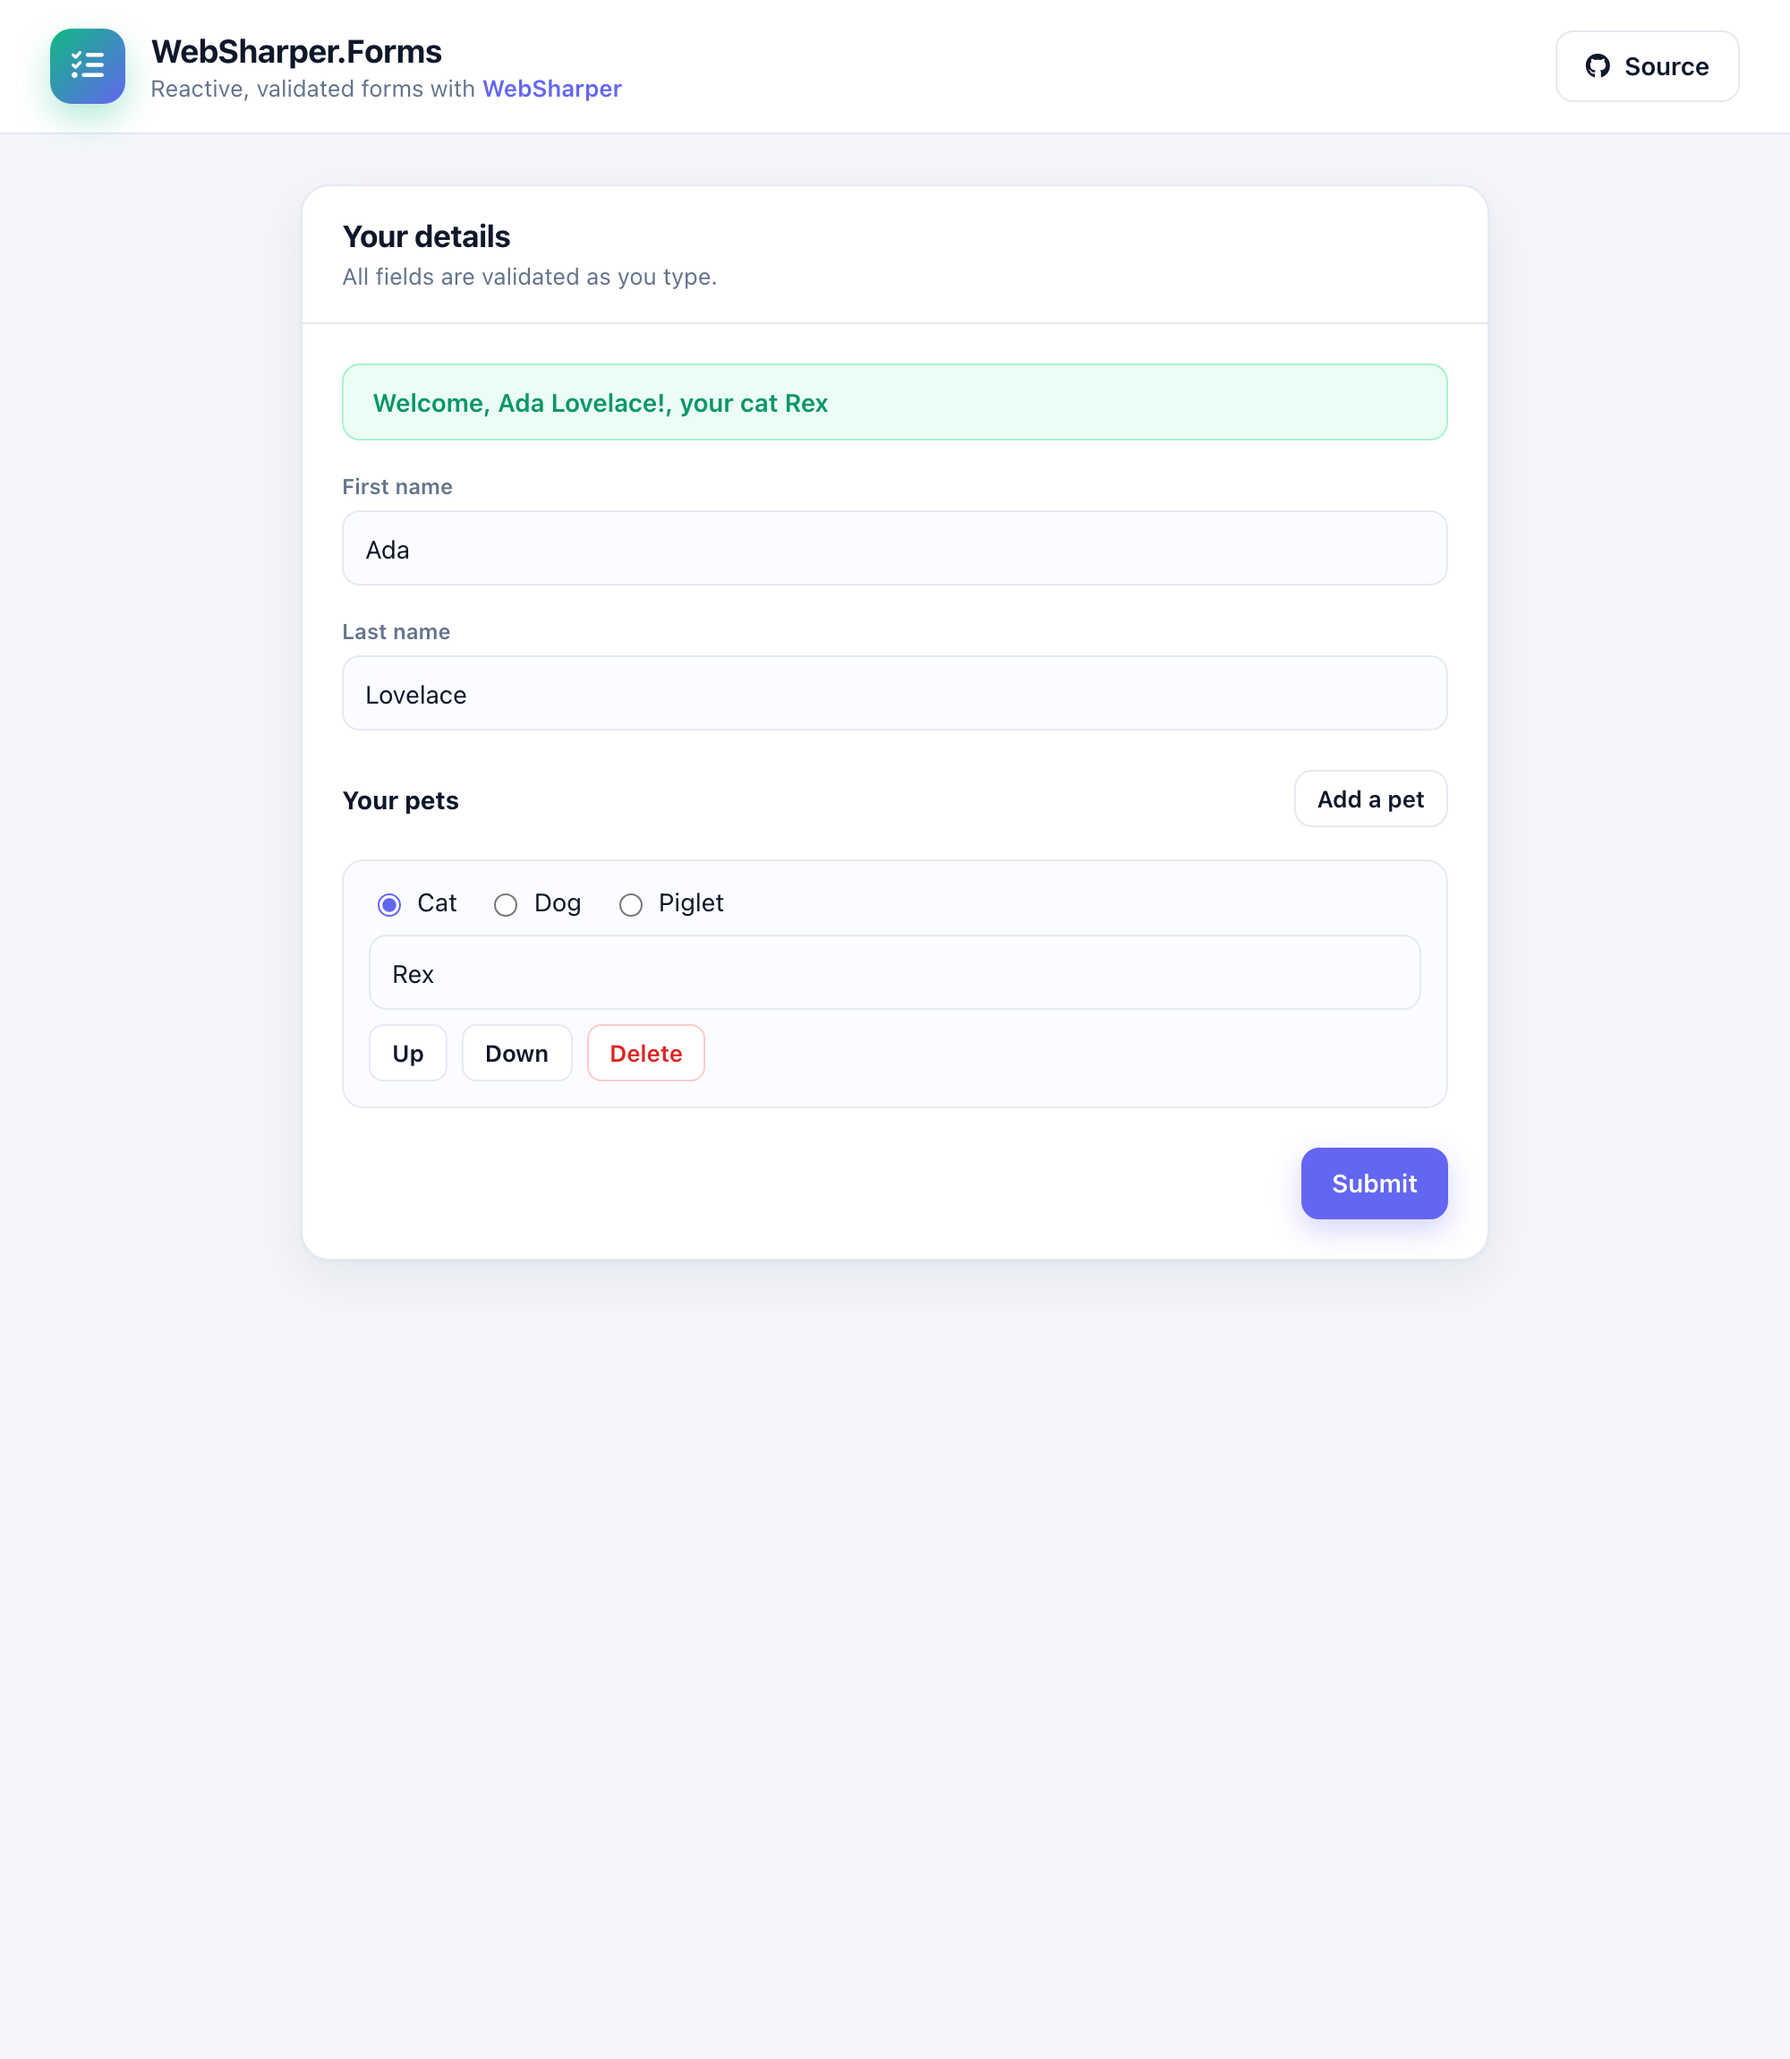
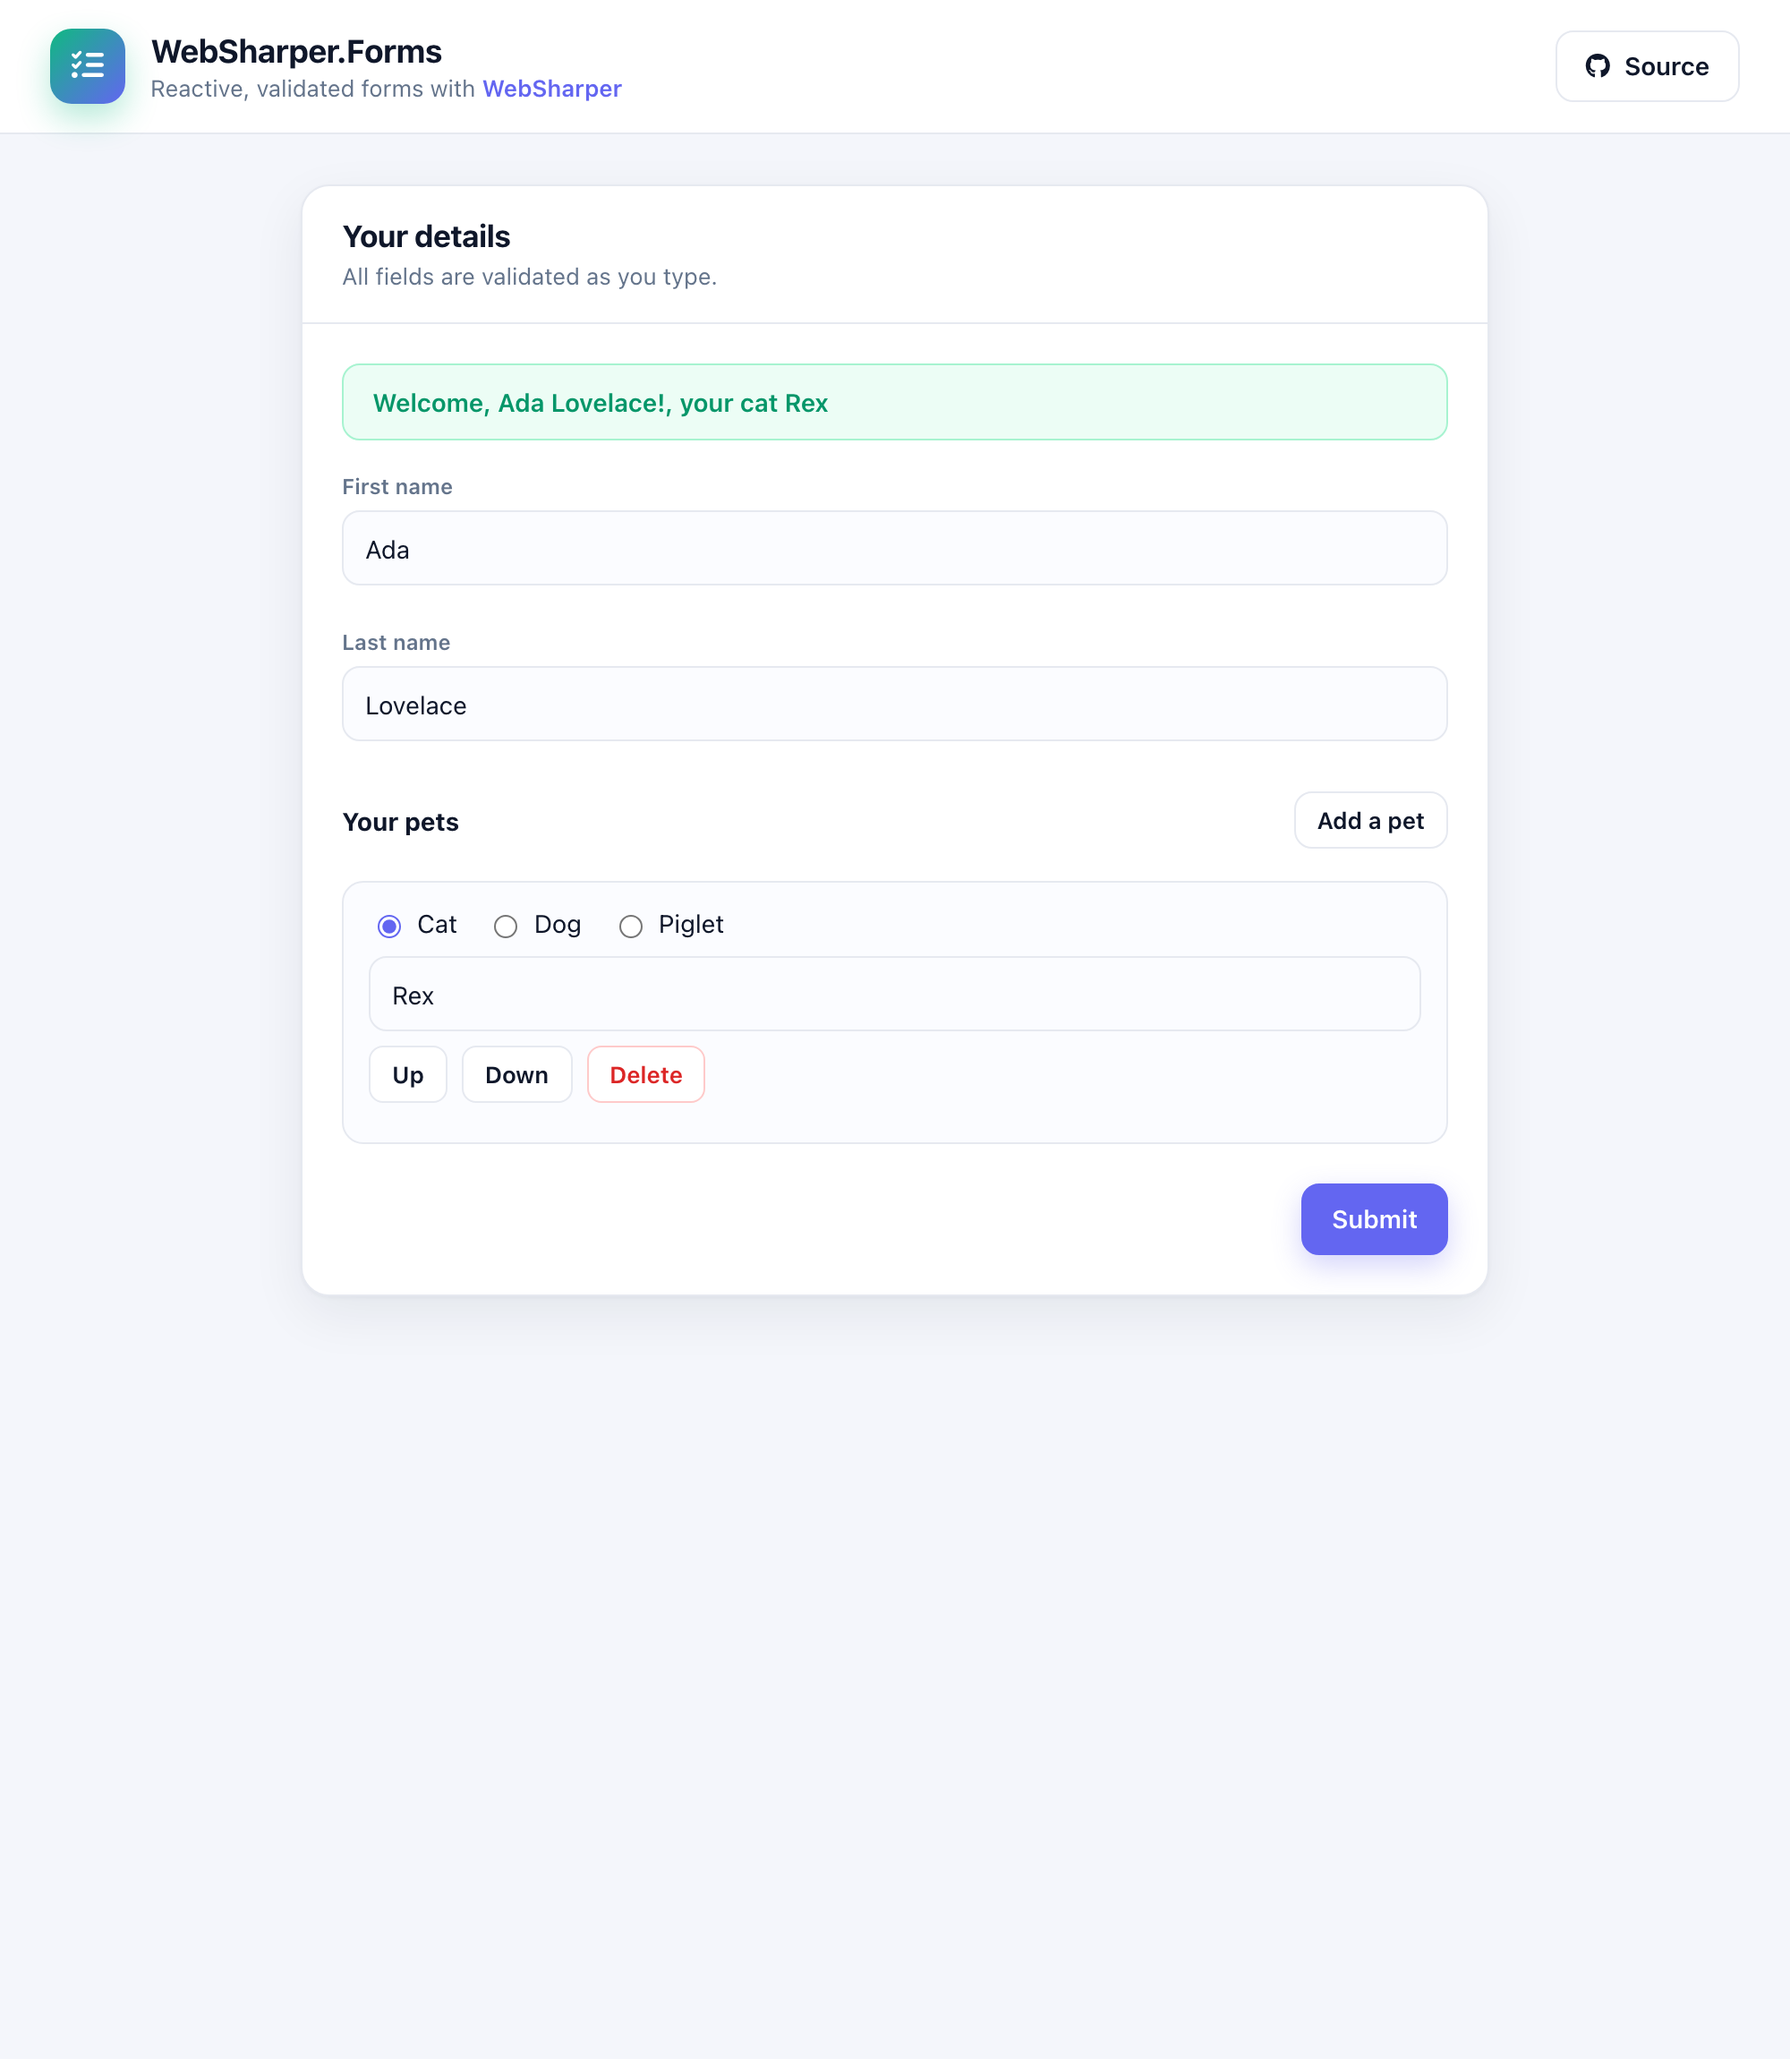
Render the person form with WebSharper templating
Move the person form body and each pet row into ws-children-template/ws-template
blocks in wwwroot/index.html, and have renderPerson bind Template.Person() and
Template.Pet() instead of assembling the markup with Doc combinators.

diff --git a/src/wwwroot/index.html b/src/wwwroot/index.html
@@ -7,6 +7,10 @@
   <link rel="stylesheet" href="https://cdnjs.cloudflare.com/ajax/libs/font-awesome/6.5.2/css/all.min.css" />
   <link rel="stylesheet" type="text/css" href="css/index.css" />
   <script type="text/javascript" src="Scripts/Forms.head.js"></script>
+  <style>
+    /* Don't show the not-yet-loaded templates */
+    [ws-template], [ws-children-template] { display: none; }
+  </style>
 </head>
 <body>
   <div class="app">
@@ -34,6 +38,48 @@
         <div class="card-body" ws-hole="Form"></div>
       </section>
     </main>
+  </div>
+
+  <!-- The person form, rendered by WebSharper.Forms. -->
+  <div ws-children-template="Person">
+    <div class="banner-slot" ws-hole="Banner"></div>
+
+    <div class="field">
+      <label class="field-label">First name</label>
+      <input class="input" type="text" ws-var="FirstName" />
+      <div ws-hole="FirstNameErrors"></div>
+    </div>
+
+    <div class="field">
+      <label class="field-label">Last name</label>
+      <input class="input" type="text" ws-var="LastName" />
+      <div ws-hole="LastNameErrors"></div>
+    </div>
+
+    <div class="section-title">
+      <span>Your pets</span>
+      <button class="btn btn-ghost btn-small" ws-onclick="AddPet">Add a pet</button>
+    </div>
+
+    <div ws-hole="Pets"></div>
+
+    <div class="actions">
+      <button class="btn btn-primary" ws-onclick="Submit">Submit</button>
+    </div>
+  </div>
+
+  <!-- A single pet row. -->
+  <div class="pet-row" ws-template="Pet">
+    <div class="pet">
+      <div class="radio-group" ws-hole="Species"></div>
+      <input class="input" type="text" placeholder="Pet name" ws-var="Name" />
+    </div>
+    <div class="pet-actions">
+      <button class="btn-icon" ws-attr="MoveUpAttr">Up</button>
+      <button class="btn-icon" ws-attr="MoveDownAttr">Down</button>
+      <button class="btn-icon btn-danger" ws-onclick="Delete">Delete</button>
+    </div>
+    <div ws-hole="NameErrors"></div>
   </div>
 
   <script type="module" src="Scripts/Forms.min.js"></script>
